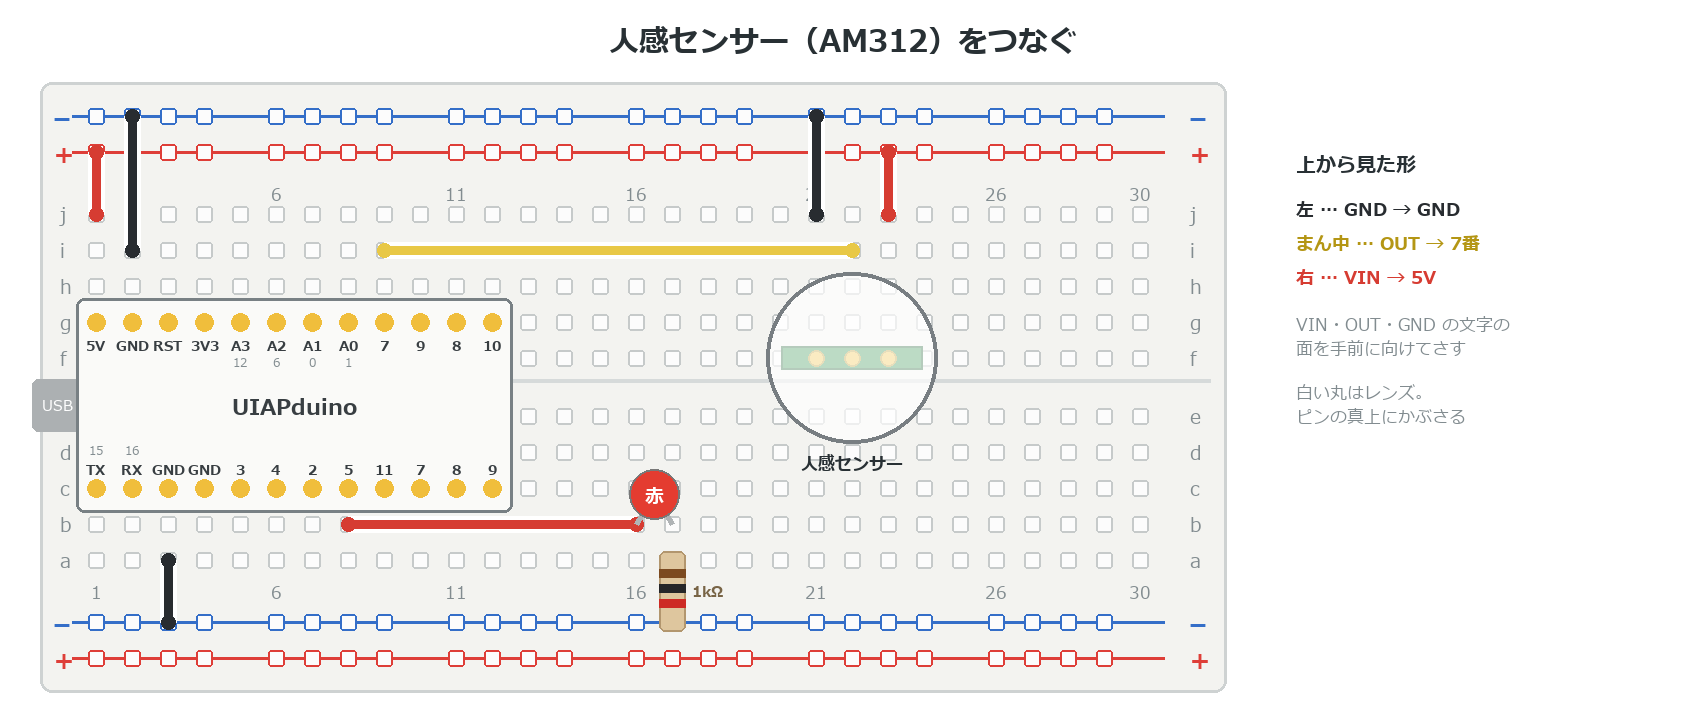
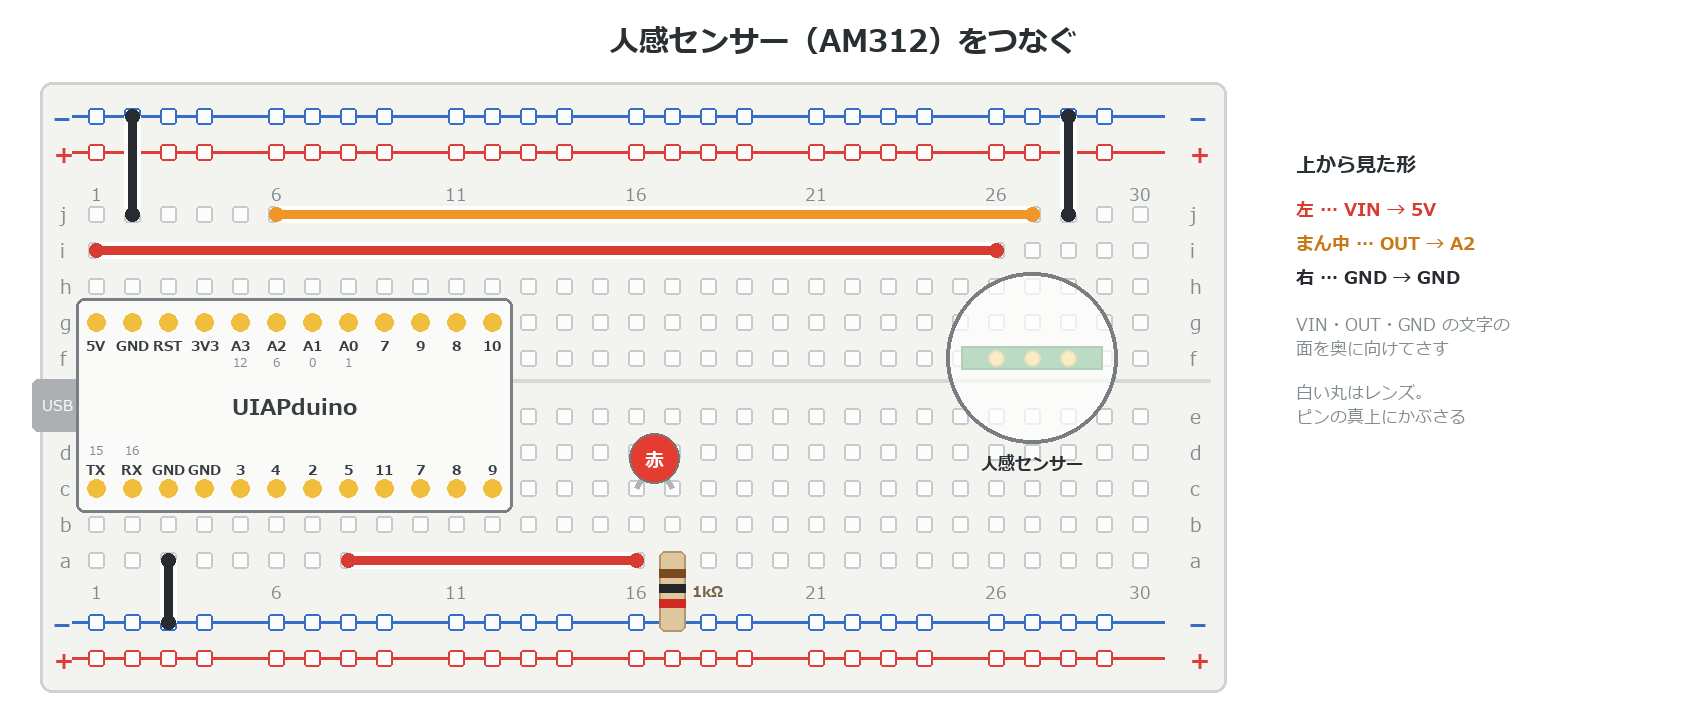
e3 の人感センサーを、e2 の温度センサーとさしかえるだけで使えるようにした
AM312 を文字の面を奥に向けて 26〜28列にさすと、左から VIN・OUT・GND になり、
e2 の 26列＝5V・27列＝A2・28列＝GND の線にそのまま合う（線は1本も変えない）。
OUT が A2（6番）につながるので、プログラムの PIR を 7 → A2 にした。
本文の「つなごう」、図（tools/fig_bb_pir.py）、x8 の確認項目、記録を直した。
向きは商品写真から読んだものなので、実機で要確認のまま。

diff --git a/docs/e3_motion/index.html b/docs/e3_motion/index.html
@@ -82,16 +82,16 @@
 
 **USBケーブルを抜いてから**つなごう。
 
-1. ボードの **5V**→＋レール ／ **GND**→−レール
-2. **文字の面を手前**にして、f 行に立ててさす
-3. 左から **GND**→− ／ **OUT**→**7番** ／ **VIN**→＋
-4. LED は e2 と同じ（**5番**）
+1. **文字の面を奥**にして、26〜28列（f 行）に立ててさす
+2. 左から **VIN**→5V ／ **OUT**→**A2** ／ **GND**→−
+3. LED は e2 と同じ（**5番**）
 
-> 基板の **VIN・OUT・GND** の文字を見て、まちがえないようにね。
+> e2 から続けるなら、温度センサーと**さしかえるだけ**。線はそのまま。
+> 基板の **VIN・OUT・GND** の文字で、向きを確かめてね。
 
 :::
 
-![文字の面を手前にすると、左から GND・OUT・VIN](image/index/bb_pir.png)
+![文字の面を奥にすると、左から VIN・OUT・GND。線は e2 と同じ](image/index/bb_pir.png)
 
 ---
 
@@ -110,7 +110,7 @@
 :::
 
 ```cpp `e3_motion` 合図をそのまま LED に
-const int PIR = 7;   // 人感センサーの OUT
+const int PIR = A2;  // 人感センサーの OUT（6番と同じ）
 const int LED = 5;
 
 void setup() {

diff --git a/docs/x8_mentor/index.html b/docs/x8_mentor/index.html
@@ -115,7 +115,7 @@
 - **e1** … つまみを**反時計回り**に回しきると 10kΩ になるか
 - **b5** … `tone()` と `analogWrite` が同時に使えるか（タイマーを分けた場合）
 - **e2** … 温度センサーを逆にさしたときの挙動（資料に記載がない）
-- **e3** … 人感センサー AM312 のピンの向き（文字の面を手前に GND・OUT・VIN）と、`digitalRead` で読めるか
+- **e3** … 人感センサー AM312 のピンの向き（文字の面を奥に VIN・OUT・GND）と、`digitalRead` で読めるか
 - **m1** … LCD のアドレス（`0x3F`／`0x27`）を**全台**調べる（`verify/v22_i2cscan`）
 
 > ⚠ ここは**通しで一度ずつ**動かしておくと、当日あわてないよ。

diff --git a/tools/fig_bb_pir.py b/tools/fig_bb_pir.py
@@ -5,11 +5,13 @@
 ピンを下にして**立てて**さす。上から見ると、直径 約12mm の白いレンズ（約5穴ぶん）が
 3本のピンの真上にかぶさって見える。レンズは半透明にして、下のピンが見えるようにしてある。
 
-ピンの名前は基板に **VIN・OUT・GND** と印刷されている（商品写真で確認）。
-**文字の面を手前（a行がわ）に向けて立てると、左から GND・OUT・VIN**。
-（写真：レンズを左・文字を正しく読める向きで、上から VIN・OUT・GND。
-  これを右に 90° 回して立てると、上にあった VIN が右へ行く）
-⚠ 実物で確かめてから wip を外すこと。
+**e2（温度センサー）の配線をそのまま使う**（2026-10-24）。
+e2 は 26列＝5V（赤）・27列＝A2（オレンジ）・28列＝GND（黒）。
+AM312 は基板に VIN・OUT・GND と印刷されていて、文字の面を手前に向けると左から GND・OUT・VIN、
+**文字の面を奥（j行がわ）に向けると左から VIN・OUT・GND**。こうして 26〜28列にさせば、
+温度センサーを抜いて差しかえるだけでよい（線は1本も変えない）。
+→ OUT は A2（6番）につながる。プログラムは `PIR = A2` で digitalRead する。
+⚠ 向きは商品写真から読んだもの。実物で要確認。
 
 電源は 5V（VIN は 2.7〜12V。基板のレギュレータで約3V に下げてセンサー IC に送る）。
 出力の HIGH は約3V。CH32V003 の VIH は 5V 動作で約 2.06V なので digitalRead で読める。
@@ -20,25 +22,22 @@ sys.stdout.reconfigure(encoding="utf-8")
 from bb import *
 from PIL import Image, ImageDraw
 
-RED, YELLOW, BLACK = (214, 60, 50), (232, 200, 70), (40, 44, 48)
-PC = 21                                        # GND の列（OUT＝22・VIN＝23）
+RED, ORANGE, BLACK = (214, 60, 50), (240, 150, 40), (40, 44, 48)
+PC = 26                                        # VIN の列（OUT＝27・GND＝28）。e2 の温度センサーと同じ場所
 
 im, d = new("人感センサー（AM312）をつなぐ", extra_w=420)
 board(d)
 mcu(d)
 
-# ボードの 5V・GND を 上の ＋−レールへ
-wire(d, (1, "j"), (1, "+t"), RED)
-wire(d, (2, "i"), (2, "-t"), BLACK)
+# e2 と同じ線（1本も変えない）
+wire(d, (2, "j"), (2, "-t"), BLACK)            # ボードの GND → −レール
+wire(d, (6, "j"), (PC + 1, "j"), ORANGE)       # A2 → 27列（OUT）
+wire(d, (PC + 2, "j"), (PC + 2, "-t"), BLACK)  # 28列（GND）→ −レール
+wire(d, (1, "i"), (PC, "i"), RED)              # 5V → 26列（VIN）
 
-# センサーの3本（f行にさす）
-wire(d, (PC, "j"), (PC, "-t"), BLACK)          # GND  → −レール
-wire(d, (9, "i"), (PC + 1, "i"), YELLOW)       # OUT  → 7番
-wire(d, (PC + 2, "j"), (PC + 2, "+t"), RED)    # VIN  → ＋レール（5V）
-
-# LED（e2・e4 と同じ 16・17列）：5番 → LED → 1kΩ → 下の −レール
-wire(d, (8, "b"), (16, "b"), RED)
-led(d, 16, "b", note=False)
+# LED（e2 と同じ 16・17列）：5番 → LED → 1kΩ → 下の −レール
+wire(d, (8, "a"), (16, "a"), RED)
+led(d, 16, "c", note=False)
 resistor_v(d, 17, "a", "-b")
 wire(d, (3, "a"), (3, "-b"), BLACK)
 
@@ -64,11 +63,11 @@ center(d, mx, my + r + 8, "人感センサー", bold(17), INK)
 # 説明（右の余白）
 x0 = W + 30
 d.text((x0, 150), "上から見た形", font=bold(20), fill=INK)
-for k, (t, c) in enumerate((("左 … GND → GND", BLACK), ("まん中 … OUT → 7番", (180, 150, 20)),
-                            ("右 … VIN → 5V", RED))):
+for k, (t, c) in enumerate((("左 … VIN → 5V", RED), ("まん中 … OUT → A2", (200, 120, 20)),
+                            ("右 … GND → GND", BLACK))):
     d.text((x0, 196 + k * 34), t, font=bold(18), fill=c)
 d.text((x0, 312), "VIN・OUT・GND の文字の", font=reg(17), fill=GRAY)
-d.text((x0, 336), "面を手前に向けてさす", font=reg(17), fill=GRAY)
+d.text((x0, 336), "面を奥に向けてさす", font=reg(17), fill=GRAY)
 d.text((x0, 380), "白い丸はレンズ。", font=reg(17), fill=GRAY)
 d.text((x0, 404), "ピンの真上にかぶさる", font=reg(17), fill=GRAY)
 save(im, "e3_motion", "bb_pir.png")

diff --git a/content/e3_motion/index.md b/content/e3_motion/index.md
@@ -68,16 +68,16 @@ wip: 実機確認まち
 
 **USBケーブルを抜いてから**つなごう。
 
-1. ボードの **5V**→＋レール ／ **GND**→−レール
-2. **文字の面を手前**にして、f 行に立ててさす
-3. 左から **GND**→− ／ **OUT**→**7番** ／ **VIN**→＋
-4. LED は e2 と同じ（**5番**）
+1. **文字の面を奥**にして、26〜28列（f 行）に立ててさす
+2. 左から **VIN**→5V ／ **OUT**→**A2** ／ **GND**→−
+3. LED は e2 と同じ（**5番**）
 
-> 基板の **VIN・OUT・GND** の文字を見て、まちがえないようにね。
+> e2 から続けるなら、温度センサーと**さしかえるだけ**。線はそのまま。
+> 基板の **VIN・OUT・GND** の文字で、向きを確かめてね。
 
 :::
 
-![文字の面を手前にすると、左から GND・OUT・VIN](image/index/bb_pir.png)
+![文字の面を奥にすると、左から VIN・OUT・GND。線は e2 と同じ](image/index/bb_pir.png)
 
 ---
 
@@ -96,7 +96,7 @@ wip: 実機確認まち
 :::
 
 ```cpp `e3_motion` 合図をそのまま LED に
-const int PIR = 7;   // 人感センサーの OUT
+const int PIR = A2;  // 人感センサーの OUT（6番と同じ）
 const int LED = 5;
 
 void setup() {

diff --git a/CURRICULUM.md b/CURRICULUM.md
@@ -86,6 +86,11 @@
 
 ### 🚶 人感センサー（`e3_motion`）— 骨格まで（2026-09-25）・実機確認まち
 
+> **2026-10-24：e2（温度センサー）の配線をそのまま使うようにした**。AM312 を**文字の面を奥**にして 26〜28列にさすと
+> 左から VIN・OUT・GND となり、e2 の 26列＝5V・27列＝A2・28列＝GND にそのまま合う（温度センサーとさしかえるだけ）。
+> OUT は **A2（6番）** になったので、プログラムは `PIR = A2`（`verify/v11_pir` も 6番で読む作りなので一致）。
+> ⚠ 文字の面の向きと並びは商品写真から読んだもの。実機で要確認。
+>
 > **2026-10-22：距離センサーと順番を入れかえた**（オーナー判断）。人感センサーが **e3（`e3_motion`）**、
 > 距離センサーが **e4（`e4_distance`）**。⚠ これより前の記録の「e3」は距離、「e4」は人感センサーのこと。
 
